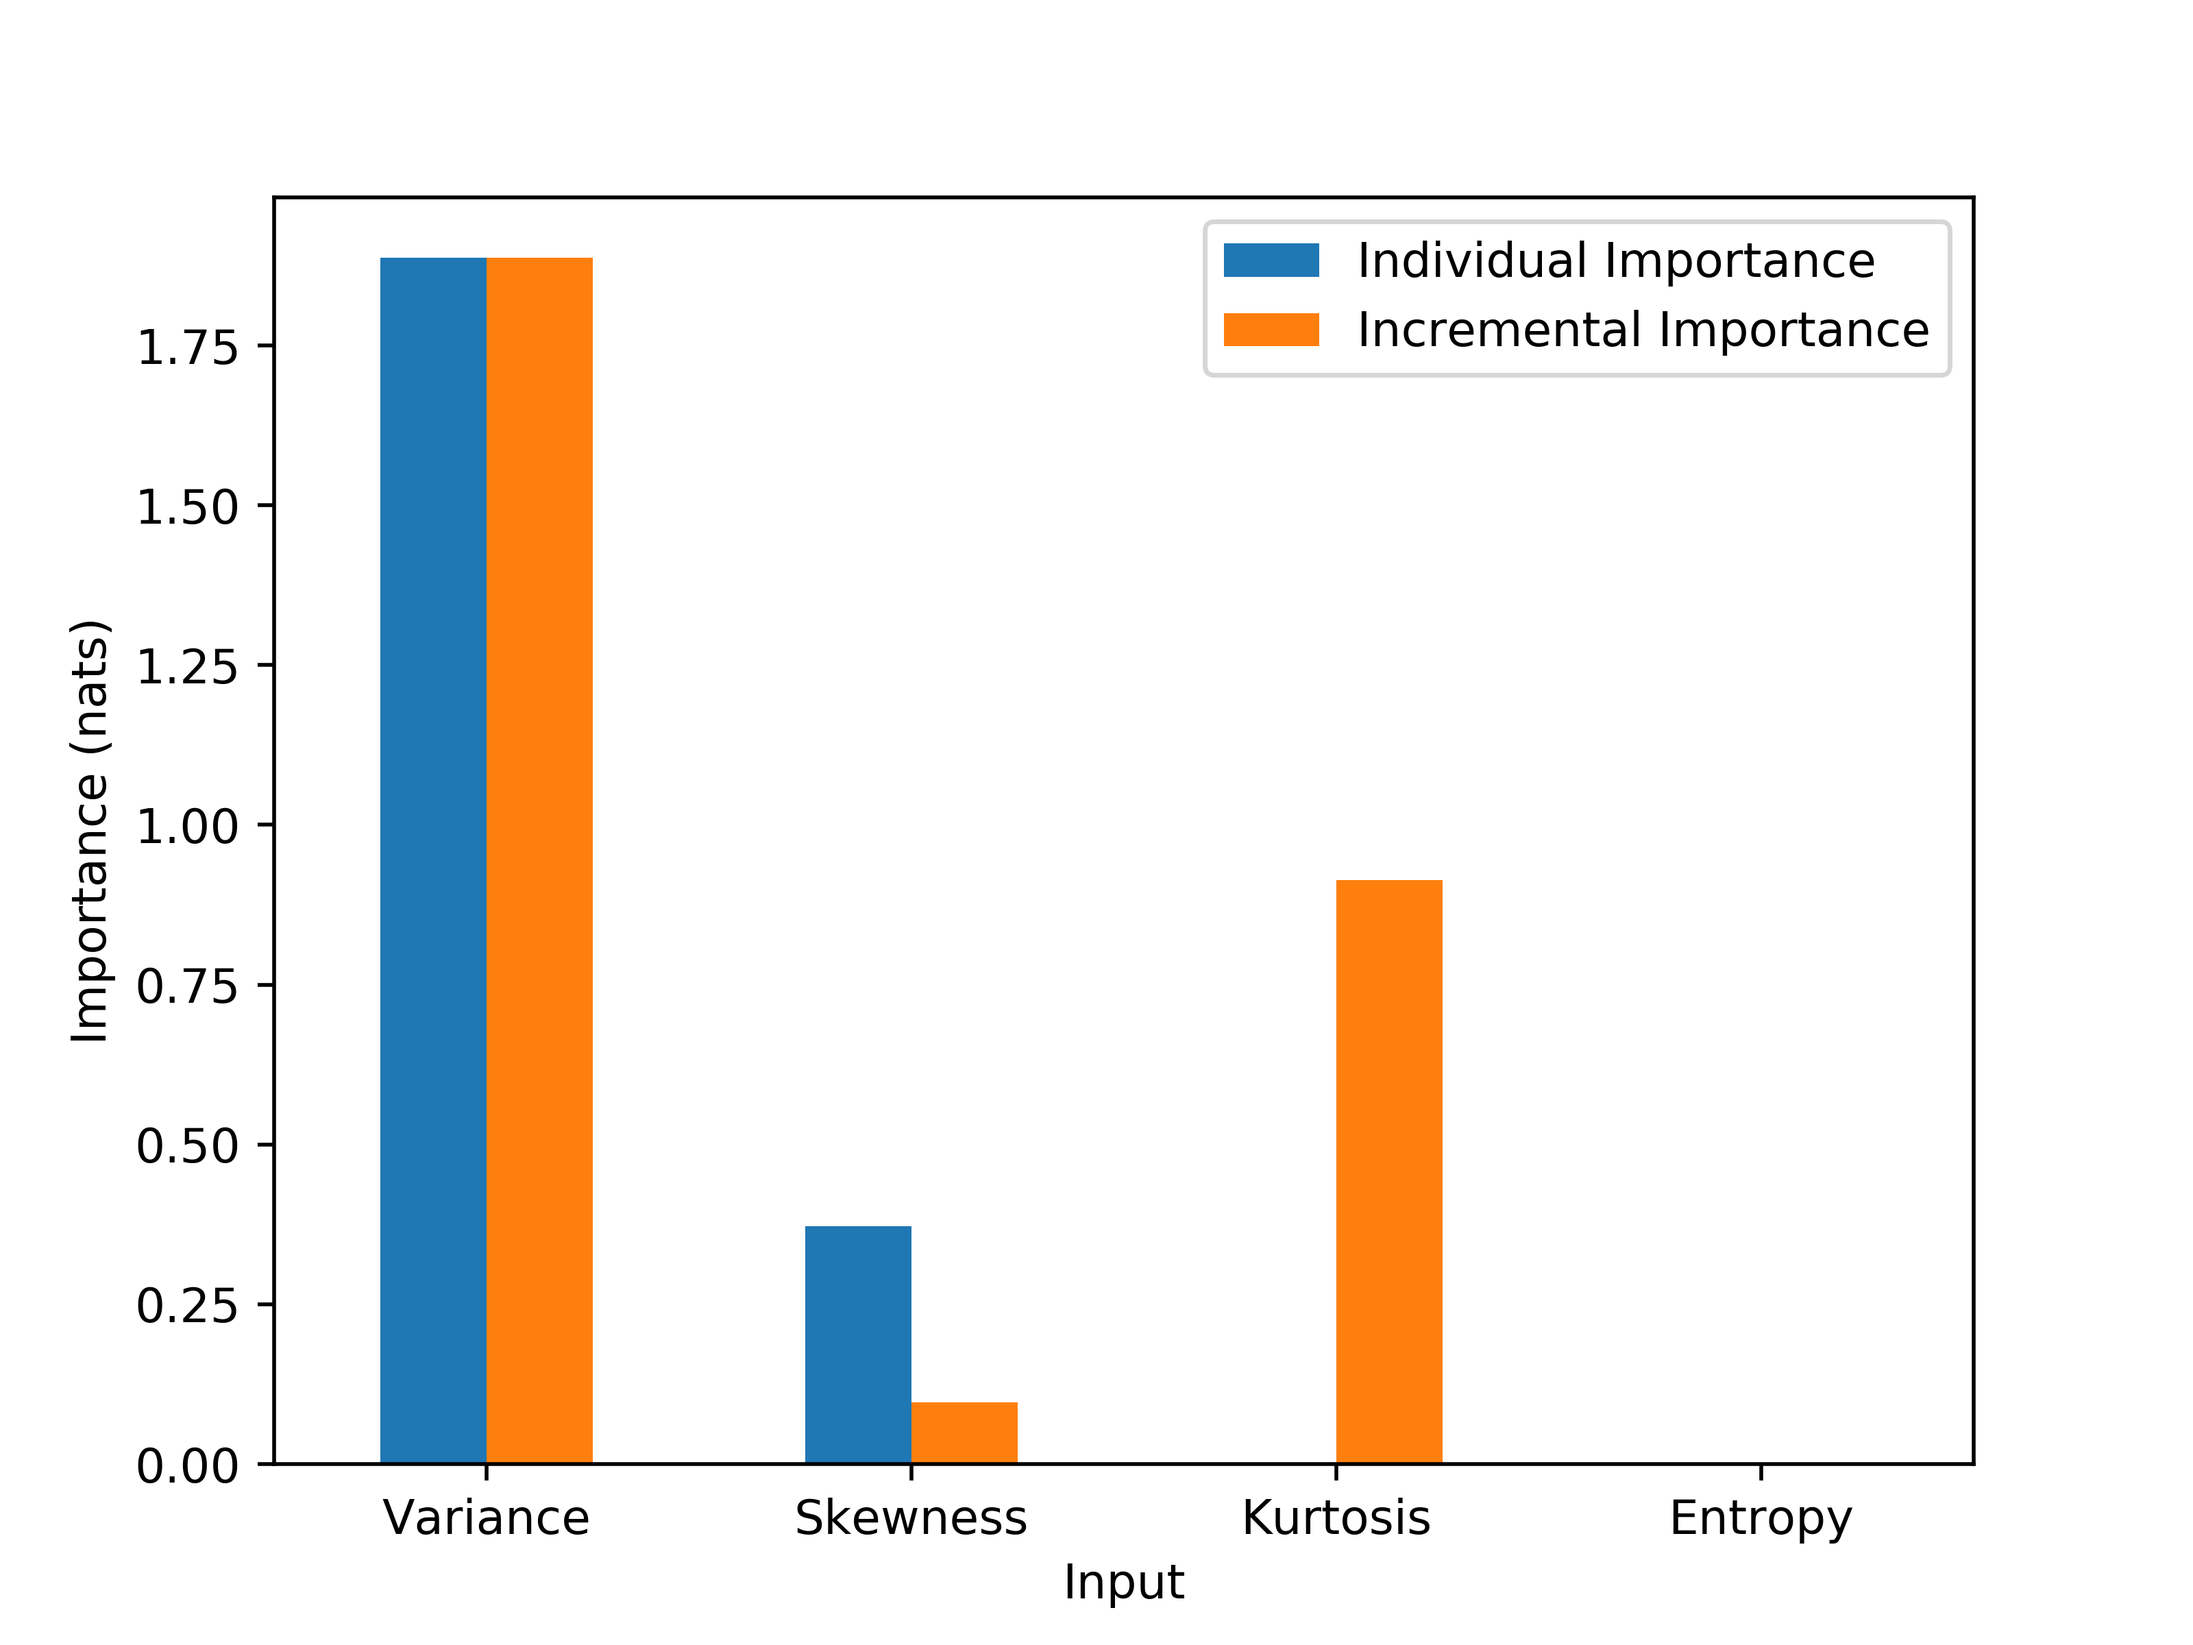
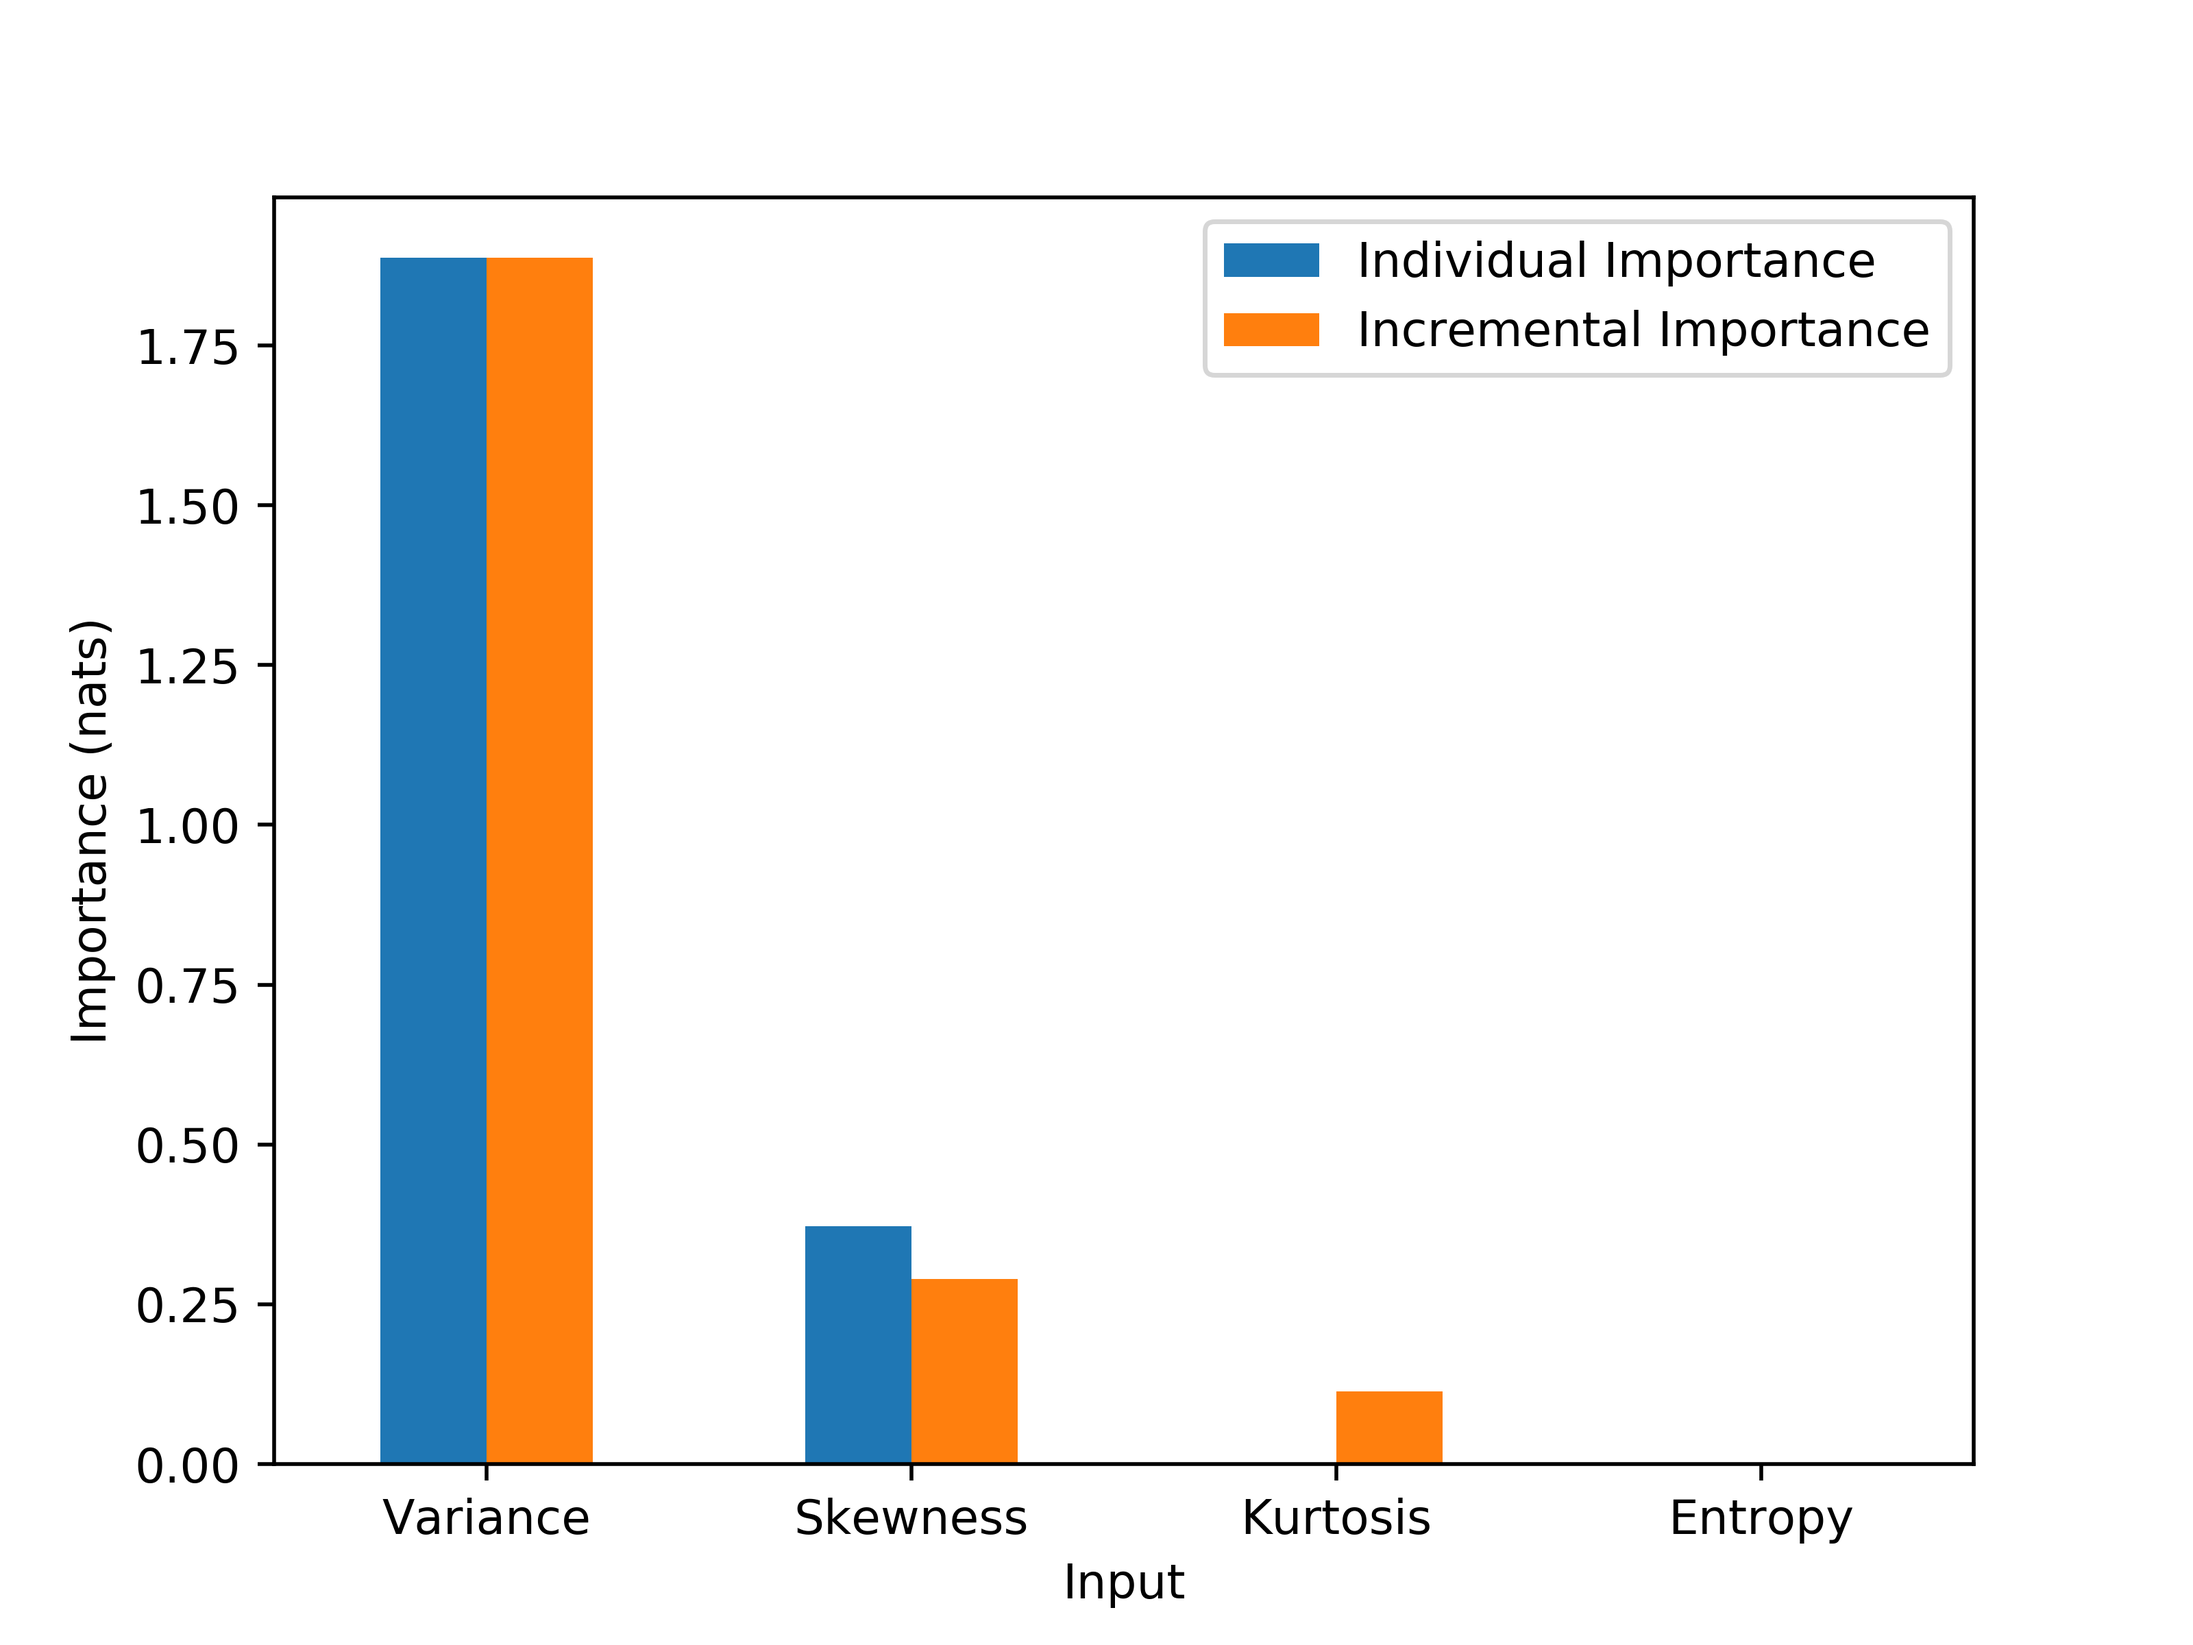
Updating endpoint url

Changed region(s): [[0.5938, 0.5312, 0.6562, 0.8438], [0.4062, 0.75, 0.4688, 0.875]]

diff --git a/kxy/api/max_ent_optimizers.py b/kxy/api/max_ent_optimizers.py
@@ -4,7 +4,7 @@
 import json
 import logging
 import requests
-from time import sleep
+from time import sleep, time
 
 from .client import APIClient
 
@@ -112,33 +112,46 @@ def solve_copula_sync(corr, mode=None, output_index=None, solve_async=True):
 	max_retry = 60
 	first_try = True
 	retry_count = 0
-	while (first_try or api_response.status_code == requests.codes.not_found) and retry_count < max_retry:
+	request_id = ''
+	while (first_try or api_response.status_code == requests.codes.retry) and retry_count < max_retry:
 		first_try = False
-		if mode == 'copula_entropy':
-			logging.debug('Querying the max-ent solution with corr=%s and mode=%s' % (c, mode))
-			api_response = APIClient.route(\
-				path='/core/dependence/copula/maximum-entropy/entropy/rv/all', method='POST', \
-				corr=c, mode='copula_entropy')
 
-		if mode == 'mutual_information_v_output':
-			logging.debug('Querying the max-ent solution with corr=%s, mode=%s and output_index=%d' % (c, mode, output_index))
-			api_response = APIClient.route(\
-				path='/core/dependence/copula/maximum-entropy/entropy/rv/all', method='POST', \
-				corr=c, mode='mutual_information_v_output', output_index=output_index)
+		if request_id == '':
+			query_start_time = time()
+			# First attempt
+			if mode == 'copula_entropy':
+				logging.debug('Querying the max-ent solution with corr=%s and mode=%s' % (c, mode))
+				api_response = APIClient.route(path='/rv/copula-entropy-analysis', method='POST', corr=c, \
+					request_id=request_id, timestamp=int(time()))
 
+			if mode == 'mutual_information_v_output':
+				logging.debug('Querying the max-ent solution with corr=%s, mode=%s and output_index=%d' % (c, mode, output_index))
+				api_response = APIClient.route(path='/rv/mutual-information-analysis', method='POST',\
+					corr=c, output_index=output_index, request_id=request_id, timestamp=int(time()))
+			query_duration = time()-query_start_time
+
+		else:
+			query_start_time = time()
+			# Subsequent attempt: refer to the initial request
+			logging.debug('Querying the max-ent solution for request_id=%s' % request_id)
+			if mode == 'copula_entropy':
+				api_response = APIClient.route(path='/rv/copula-entropy-analysis', method='POST', \
+					request_id=request_id, timestamp=int(time()))
+
+			if mode == 'mutual_information_v_output':
+				api_response = APIClient.route(path='/rv/mutual-information-analysis', method='POST',\
+					request_id=request_id, timestamp=int(time()))
+			query_duration = time()-query_start_time
 
 		retry_count += 1
-		if api_response.status_code == requests.codes.not_found:
-			sleep(10.)
+		if api_response.status_code == requests.codes.retry:
+			request_id = api_response.json()['request_id']
+			sleep(.1 if query_duration > 10. else 10.)
 
-	try:
-		logging.debug(api_response.json())
-	except:
-		logging.debug('Failed to convert api response to json %s' % api_response)
 
 	if api_response.status_code == requests.codes.ok:
 		if mode == 'copula_entropy':
-			h = api_response.json()['entropy']
+			h = api_response.json()['copula_entropy']
 			if h is not None:
 				return float(h)
 

diff --git a/kxy/api/client.py b/kxy/api/client.py
@@ -91,7 +91,8 @@ class APIClient(object):
 				for more information.
 		"""
 		url = APIClient.url(path)
-		response = requests.get(url, params=params, headers={'x-api-key': API_KEY})
+		response = requests.get(url, params=params, headers={'x-api-key': API_KEY, \
+			'content-type': 'application/json'})
 
 		return response
 
@@ -136,7 +137,8 @@ class APIClient(object):
 				for more information.
 		"""
 		url = APIClient.url(path)
-		response = requests.post(url, json=params, headers={'x-api-key': API_KEY})
+		response = requests.post(url, json=params, headers={'x-api-key': API_KEY, \
+			'content-type': 'application/json'})
 
 		return response
 

diff --git a/kxy/data/dataframe.py b/kxy/data/dataframe.py
@@ -13,8 +13,7 @@ from concurrent.futures import ThreadPoolExecutor
 import numpy as np
 import pandas as pd
 
-from kxy.api.core import least_total_correlation, spearman_corr, least_continuous_conditional_mutual_information, \
-	scalar_continuous_entropy
+from kxy.api.core import least_total_correlation, spearman_corr, scalar_continuous_entropy
 from kxy.api import solve_copula_async
 from kxy.classification import classification_feasibility, classification_suboptimality, \
 	classification_input_incremental_importance

diff --git a/kxy/api/core/utils.py b/kxy/api/core/utils.py
@@ -29,6 +29,7 @@ def spearman_corr(x):
 	n, m = x.shape
 	R = 1+x.argsort(axis=0).argsort(axis=0)
 	corr = np.cov(R.T, bias=True)/((n*n-1.)/12.)
+	corr = np.round(corr, 3)
 
 	return corr
 

diff --git a/docs/latest/introduction/getting_started/index.rst b/docs/latest/introduction/getting_started/index.rst
@@ -105,10 +105,11 @@ and reduces time wasted improving models fitted on irrelevant inputs.
 	>>> importance_df_2 = df.incremental_input_importance('Is Fake')
 	>>> importance_df_2
 	      input selection_order incremental_importance normalized_incremental_importance
-	0  Variance               1                   1.89                              0.65
-	1  Skewness               2                   0.10                              0.03
-	2  Kurtosis               3                   0.91                              0.32
+	0  Variance               1                   1.89                              0.82
+	1  Skewness               2                   0.29                              0.13
+	2  Kurtosis               3                   0.11                              0.05
 	3   Entropy               4                   0.00                              0.00
+
 	>>> importance_df_1 = importance_df_1.set_index(['input'])
 	>>> importance_df_2 = importance_df_2.set_index(['input'])
 	>>> importance_df = pd.concat([importance_df_1, importance_df_2], axis=1)
@@ -244,17 +245,26 @@ Pre-Learning
 	Feasibility: 2.1038, Entropy: 3.3815
 
 	>>> # Pre-Learning: How useful is each input individually?
-	>>> importance_df = df.input_importance(label_column, problem='regression')
-	>>> print(importance_df)
+	>>> importance_df = df.individual_input_importance(label_column, problem='regression')
+	>>> importance_df
 	                    input individual_importance normalized_individual_importance
-	0           Froude Number                2.1038                           0.9978
-	1     Length-Displacement                0.0018                           0.0009
-	2   Longitudinal Position                0.0010                           0.0005
-	3      Beam-Draught Ratio                0.0009                           0.0004
-	4  Prismatic Coeefficient                0.0007                           0.0003
-	5       Length-Beam Ratio                0.0002                           0.0001
+	0           Froude Number                2.1038                           0.9798
+	1  Prismatic Coeefficient                0.0228                           0.0106
+	2     Length-Displacement                0.0135                           0.0063
+	3      Beam-Draught Ratio                0.0034                           0.0016
+	4   Longitudinal Position                0.0032                           0.0015
+	5       Length-Beam Ratio                0.0004                           0.0002
 
-
+	>>> # Pre-Learning: How much value does each input add marginally?
+	>>> importance_df = df.incremental_input_importance(label_column, problem='regression')
+	>>> importance_df
+	                    input selection_order incremental_importance normalized_incremental_importance
+	0           Froude Number               1                 2.1038                                 1
+	1      Beam-Draught Ratio               2                      0                                 0
+	2  Prismatic Coeefficient               3                      0                                 0
+	3     Length-Displacement               4                      0                                 0
+	4   Longitudinal Position               5                      0                                 0
+	5       Length-Beam Ratio               6                      0                                 0
 
 
 
